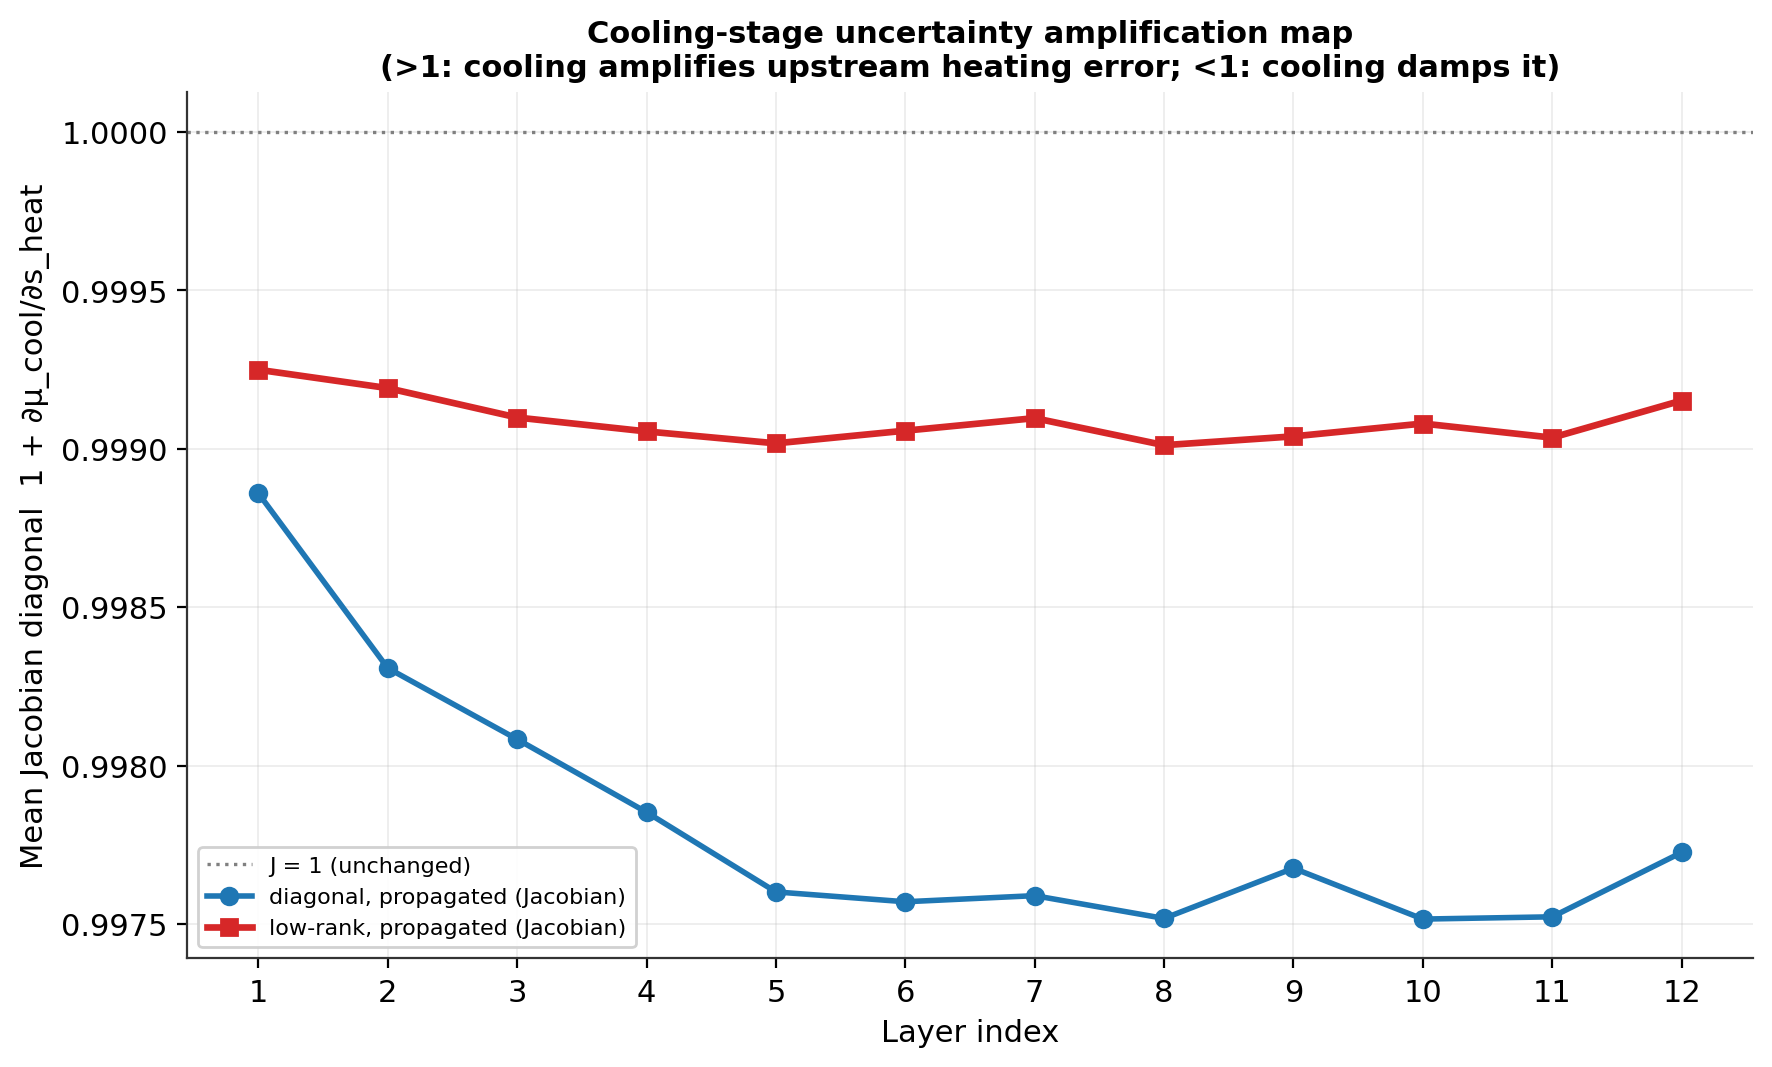
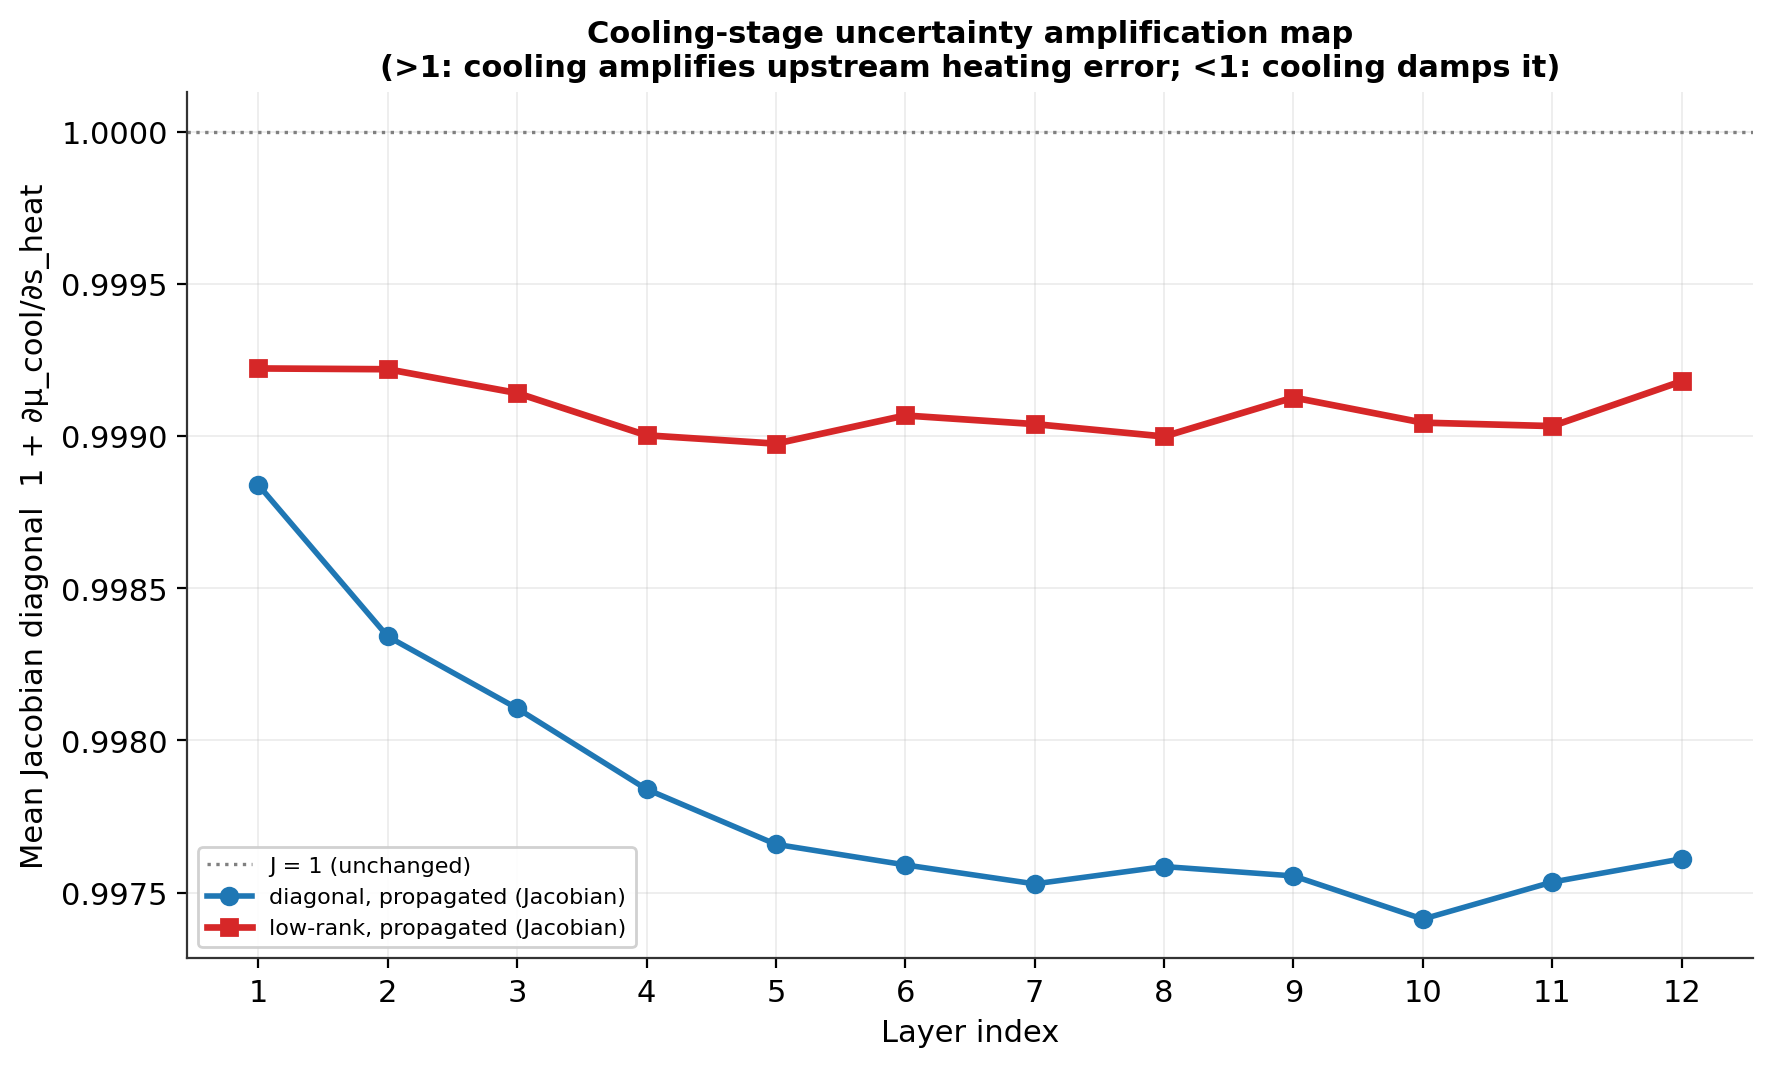
Sync: new comparison code

diff --git a/surrogate_model_v3/compare_uncertainty_methods.py b/surrogate_model_v3/compare_uncertainty_methods.py
@@ -98,22 +98,24 @@ CONFIG_LABEL = {
 # =============================================================================
 
 @torch.no_grad()
-def collect_rollout_uncertainty(model, traj_loader, device, propagate_uncertainty, num_probes, traj_len):
+def collect_rollout_uncertainty(model, traj_loader, device, propagate_uncertainty, num_probes, traj_len,
+                                state_std):
     """Runs model.rollout over every test trajectory batch with the given
     propagate_uncertainty setting. Returns per-layer mean epistemic/
     aleatoric/total std ((traj_len,) arrays), the amplification map's mean
     Jacobian diagonal per layer (None if propagate_uncertainty=False), and
-    flat per-sample (laser_power_raw, total_std_mean_over_nodes) arrays for
-    the laser-power binning plot.
+    flat per-sample (laser_power_raw, epistemic/aleatoric/total std, squared
+    next-state error in Kelvin) arrays for the laser-power binning plots.
     """
     model.eval()
+    ss = state_std.to(device)
     heat_epi_l = [[] for _ in range(traj_len)]
     heat_ale_l = [[] for _ in range(traj_len)]
     total_epi_l = [[] for _ in range(traj_len)]
     total_ale_l = [[] for _ in range(traj_len)]
     total_std_l = [[] for _ in range(traj_len)]
     jac_l       = [[] for _ in range(traj_len)] if propagate_uncertainty else None
-    actions_flat, total_std_flat = [], []
+    actions_flat, total_std_flat, epi_flat, ale_flat, sqerr_flat = [], [], [], [], []
 
     for traj_s, traj_h, traj_a, traj_c, _bmask in traj_loader:
         traj_s, traj_a, traj_c = traj_s.to(device), traj_a.to(device), traj_c.to(device)
@@ -133,6 +135,11 @@ def collect_rollout_uncertainty(model, traj_loader, device, propagate_uncertaint
             a_raw = traj_a[:, t, 0].cpu().numpy()  # normalised here; caller rescales if needed
             actions_flat.extend(a_raw.tolist())
             total_std_flat.extend(out["total_std"][:, t].cpu().numpy().tolist())
+            epi_flat.extend(out["total_epistemic"][:, t].cpu().numpy().tolist())
+            ale_flat.extend(out["total_aleatoric"][:, t].cpu().numpy().tolist())
+
+            dc = (out["pred_next_states"][:, t, :] - traj_s[:, t + 1, :]) * ss  # Kelvin
+            sqerr_flat.extend(dc.pow(2).mean(dim=-1).cpu().numpy().tolist())
 
         if propagate_uncertainty:
             # Re-derive the mean Jacobian diagonal per layer by re-running the
@@ -160,6 +167,9 @@ def collect_rollout_uncertainty(model, traj_loader, device, propagate_uncertaint
         jacobian_diag=(np.array([np.mean(x) for x in jac_l]) if jac_l is not None else None),
         actions_norm=np.array(actions_flat),
         total_std_flat=np.array(total_std_flat),
+        epi_flat=np.array(epi_flat),
+        ale_flat=np.array(ale_flat),
+        sqerr_flat=np.array(sqerr_flat),
     )
     return result
 
@@ -174,6 +184,20 @@ def bin_by_action(actions_raw: np.ndarray, values: np.ndarray, n_bins: int):
         if mask.sum() > 0:
             means[b] = values[mask].mean()
     return centers, means
+
+
+def bin_by_action_rmse(actions_raw: np.ndarray, sq_values: np.ndarray, n_bins: int):
+    """Like bin_by_action, but aggregates squared errors as sqrt(mean(sq))
+    per bin (true RMSE), not mean(sqrt(sq))."""
+    edges = np.linspace(actions_raw.min(), actions_raw.max(), n_bins + 1)
+    idx = np.clip(np.digitize(actions_raw, edges[1:-1]), 0, n_bins - 1)
+    centers = 0.5 * (edges[:-1] + edges[1:])
+    rmse = np.full(n_bins, np.nan)
+    for b in range(n_bins):
+        mask = idx == b
+        if mask.sum() > 0:
+            rmse[b] = np.sqrt(sq_values[mask].mean())
+    return centers, rmse
 
 
 # =============================================================================
@@ -203,21 +227,39 @@ def plot_per_layer_comparison(results: dict, traj_len: int, out_path: str):
 
 def plot_vs_laser_power(results: dict, lp_mean: float, lp_std: float, out_path: str,
                         id_range=None, n_bins: int = 12):
-    fig, ax = plt.subplots(figsize=(10, 6))
-    if id_range is not None:
-        ax.axvspan(id_range[0], id_range[1], color="#2ca02c", alpha=0.10, zorder=0,
-                  label=f"Training range [{id_range[0]:.0f}, {id_range[1]:.0f}] W")
-    for cfg, res in results.items():
-        actions_raw = res["actions_norm"] * lp_std + lp_mean
-        centers, means = bin_by_action(actions_raw, res["total_std_flat"], n_bins)
-        style = CONFIG_STYLE.get(cfg, dict(color="grey", linestyle="-", marker="o", linewidth=1.4))
-        ax.plot(centers, means, label=CONFIG_LABEL.get(cfg, str(cfg)), markersize=6.5, **style)
-    ax.set_xlabel("Laser power [W]")
-    ax.set_ylabel("Mean combined total σ (normalised space)")
-    ax.set_title("Combined uncertainty vs. laser power — diagonal vs. low-rank, naive vs. propagated")
-    ax.legend(loc="upper left", fontsize=8)
-    ax.grid(True, alpha=0.25, linewidth=0.6)
-    ax.spines[["top", "right"]].set_visible(False)
+    """2x2 grid: epistemic σ, aleatoric σ, combined total σ, and next-state
+    RMSE (Kelvin), each vs. binned laser power. Uncertainty panels use a log
+    y-axis since low-rank aleatoric can be ~1-2 orders of magnitude larger
+    than epistemic, which otherwise gets squashed flat on a shared linear
+    axis."""
+    fig, axes = plt.subplots(2, 2, figsize=(14, 10))
+    panels = [
+        (axes[0, 0], "epi_flat", "Epistemic σ vs. laser power", True),
+        (axes[0, 1], "ale_flat", "Aleatoric σ vs. laser power", True),
+        (axes[1, 0], "total_std_flat", "Combined total σ vs. laser power (read by RL)", True),
+        (axes[1, 1], "sqerr_flat", "Next-state RMSE [K] vs. laser power", False),
+    ]
+    for ax, key, title, is_log in panels:
+        if id_range is not None:
+            ax.axvspan(id_range[0], id_range[1], color="#2ca02c", alpha=0.10, zorder=0,
+                      label=f"Training range [{id_range[0]:.0f}, {id_range[1]:.0f}] W")
+        for cfg, res in results.items():
+            actions_raw = res["actions_norm"] * lp_std + lp_mean
+            if key == "sqerr_flat":
+                centers, vals = bin_by_action_rmse(actions_raw, res[key], n_bins)
+            else:
+                centers, vals = bin_by_action(actions_raw, res[key], n_bins)
+            style = CONFIG_STYLE.get(cfg, dict(color="grey", linestyle="-", marker="o", linewidth=1.4))
+            ax.plot(centers, vals, label=CONFIG_LABEL.get(cfg, str(cfg)), markersize=6, **style)
+        ax.set_xlabel("Laser power [W]")
+        ax.set_ylabel("σ (normalised space, log)" if is_log else "RMSE [K]")
+        if is_log:
+            ax.set_yscale("log")
+        ax.set_title(title)
+        ax.grid(True, alpha=0.25, linewidth=0.6)
+        ax.spines[["top", "right"]].set_visible(False)
+    axes[0, 0].legend(loc="best", fontsize=8)
+    fig.suptitle("Uncertainty and accuracy vs. laser power — diagonal vs. low-rank, naive vs. propagated")
     fig.tight_layout()
     fig.savefig(out_path)
     plt.close(fig)
@@ -321,7 +363,7 @@ def main() -> None:
 
         for propagate in (False, True):
             print(f"[compare_uncertainty] Running rollout: config=({tag}, propagate={propagate}) ...")
-            res = collect_rollout_uncertainty(model, loader, device, propagate, args.num_probes, traj_len)
+            res = collect_rollout_uncertainty(model, loader, device, propagate, args.num_probes, traj_len, ss)
             results[(tag, propagate)] = res
             print(f"[compare_uncertainty]   mean total σ (last layer) = {res['total_std'][-1]:.5f}")
 
